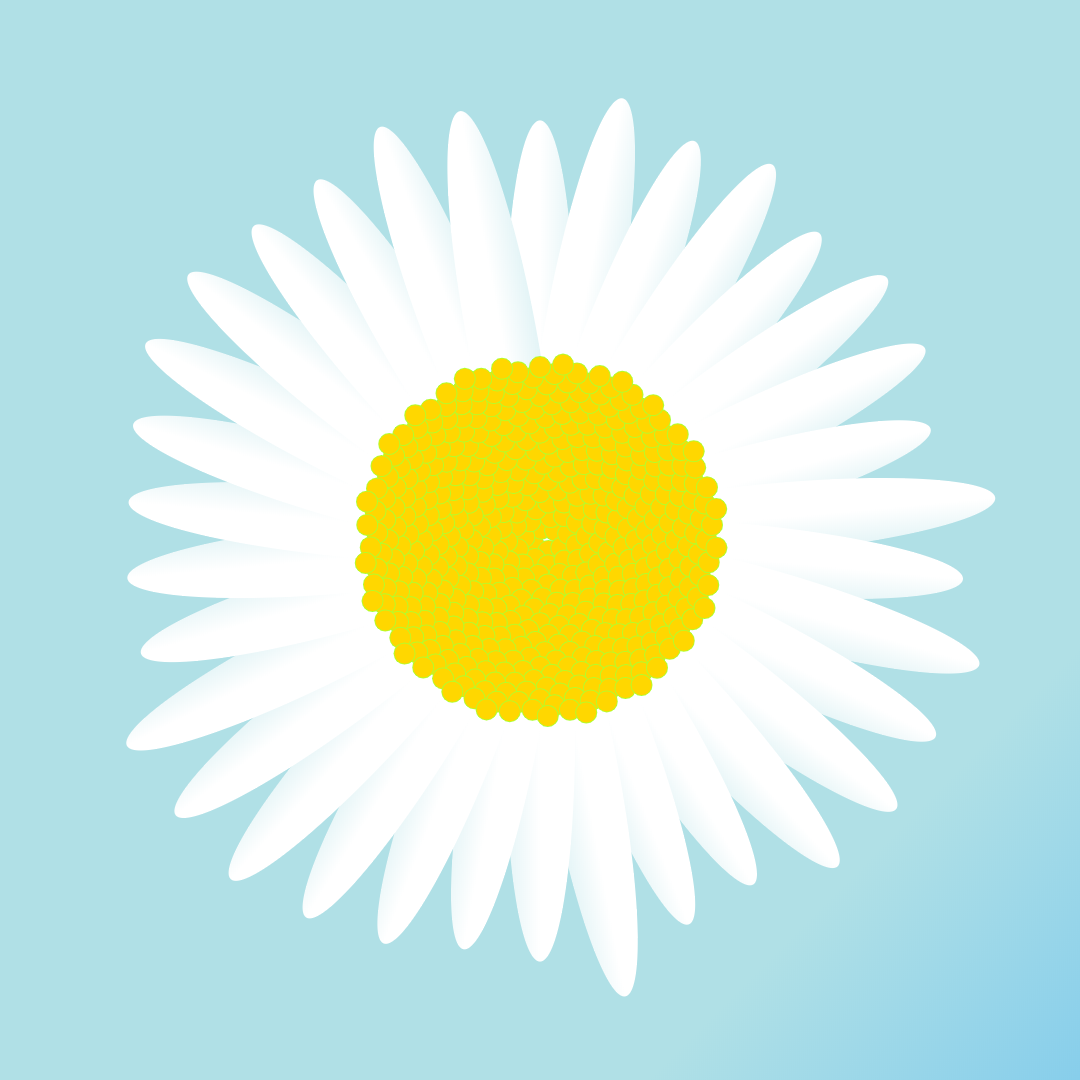
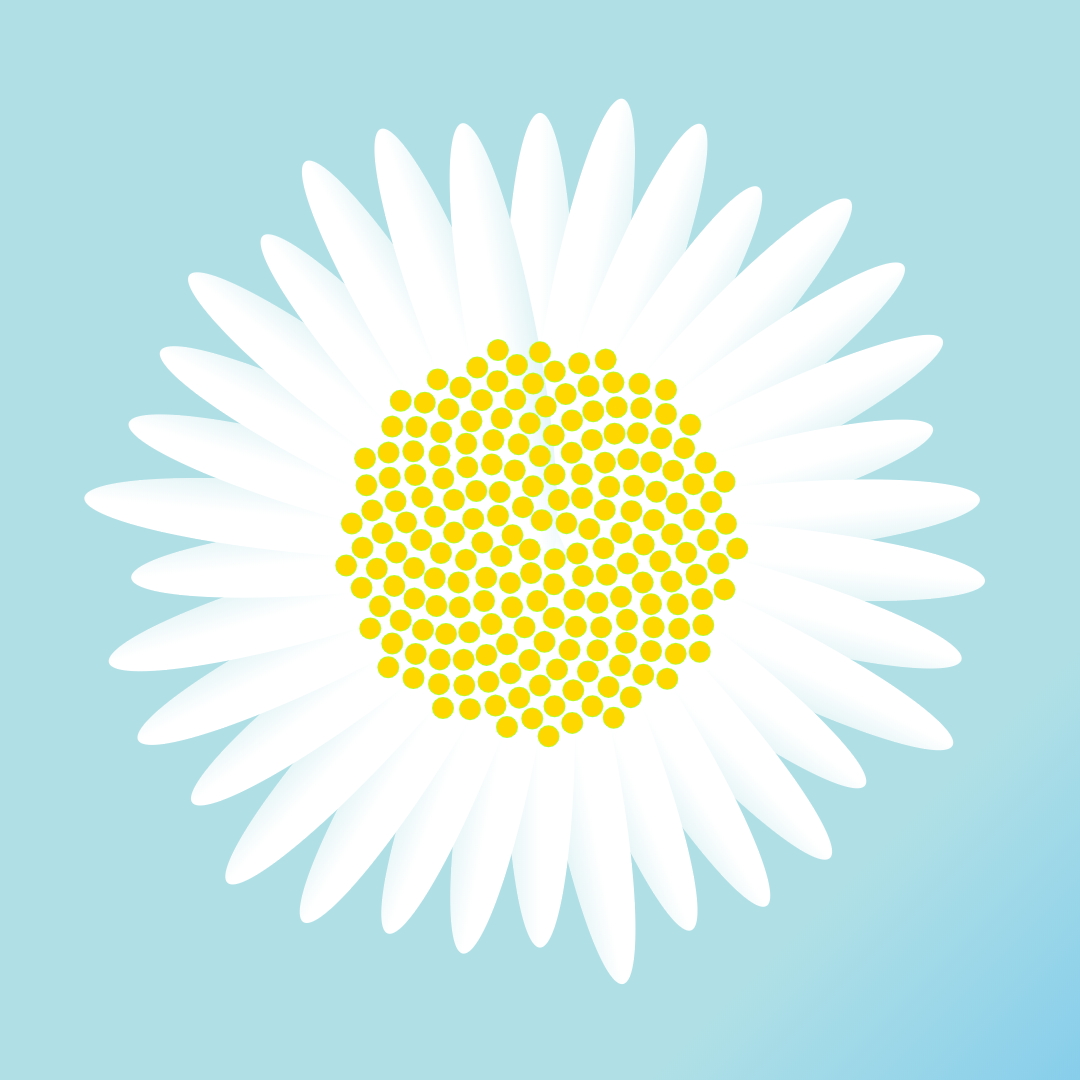
Update 8

diff --git a/sketch_8.js b/sketch_8.js
@@ -52,8 +52,8 @@ const sketch = () => {
     }
 
     function drawPistil() {
-      for (var i = 1; i <= 500; i++) {
-        var r = 8 * Math.sqrt(i);
+      for (var i = 1; i <= 200; i++) {
+        var r = 14 * Math.sqrt(i);
 
         var angle = (Math.PI / 180) * 137.5 * i; // convert degree to radian
 
